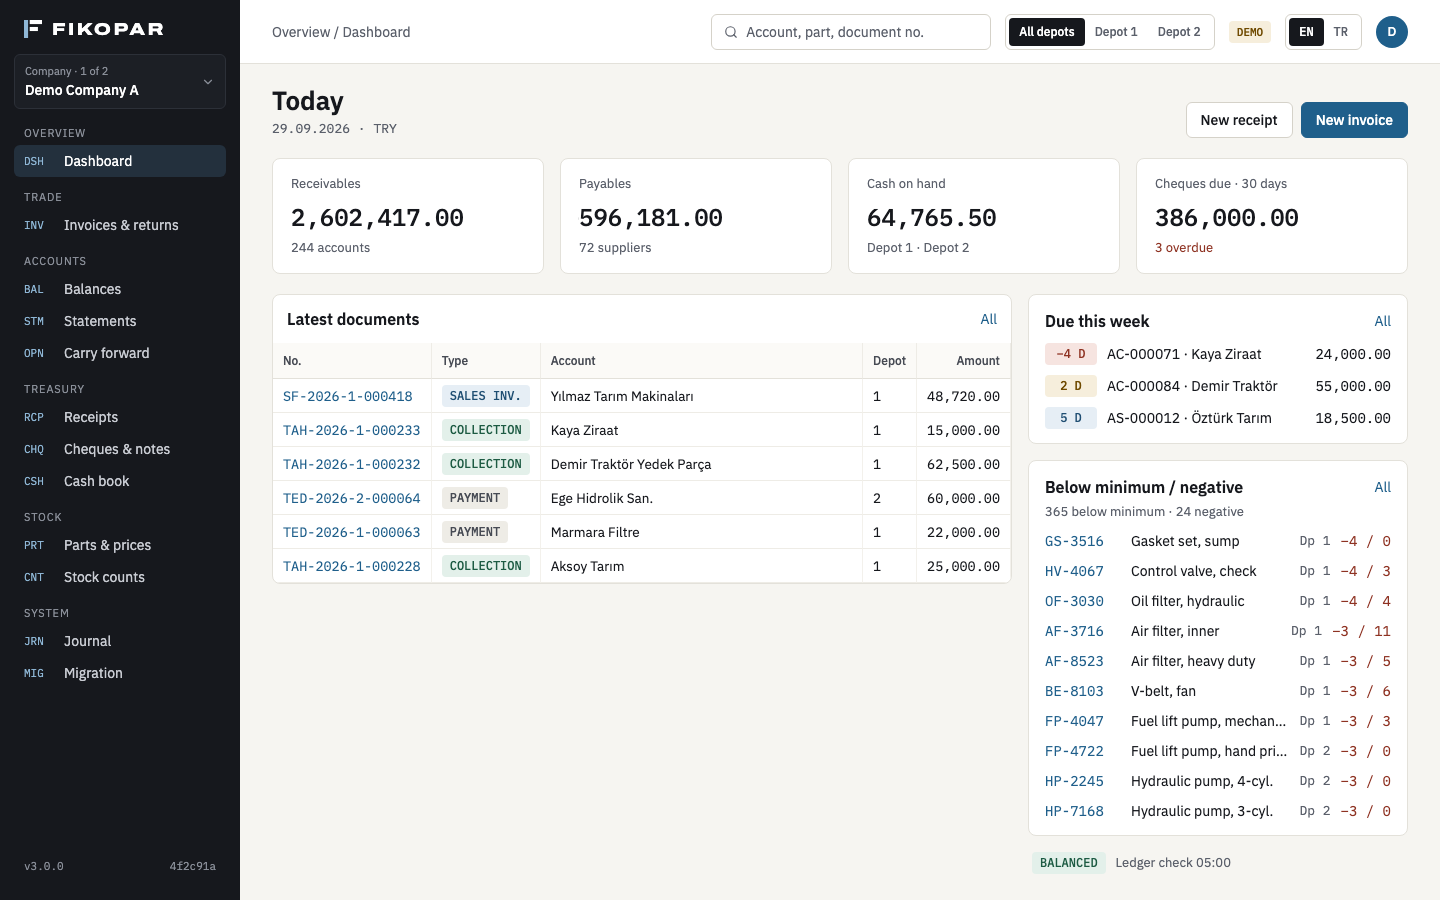
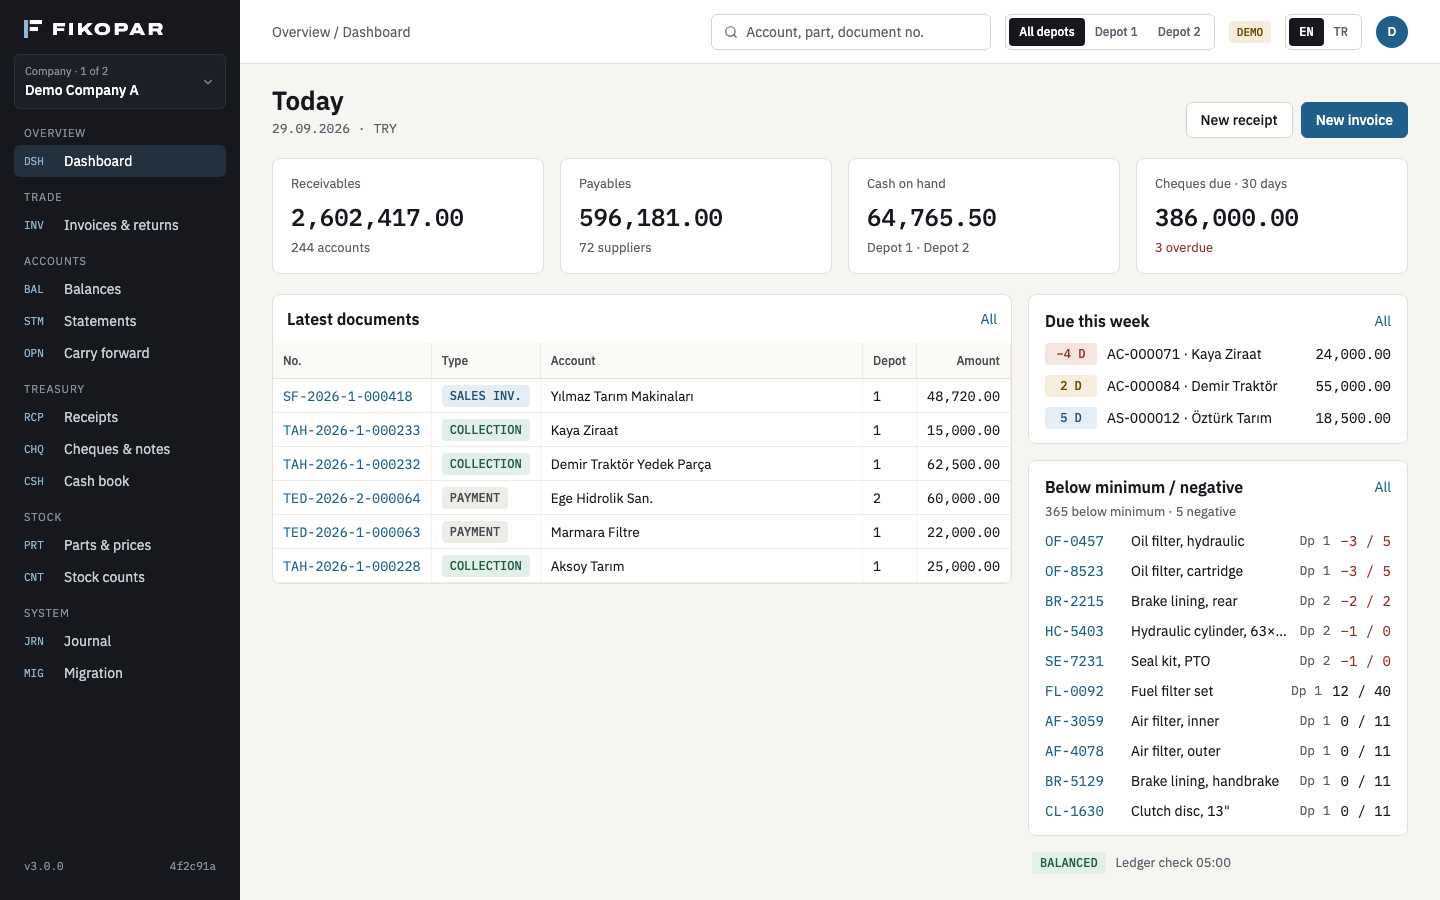
test(frontend): dashboard and mock numbers after fewer synthetic negatives; F2 contract issues and screenshots

Changed region(s): [[0.7188, 0.56, 0.9688, 0.9333], [0.9062, 0.7467, 0.9688, 0.9022]]

diff --git a/frontend/e2e/msw/dashboard.spec.ts b/frontend/e2e/msw/dashboard.spec.ts
@@ -29,11 +29,11 @@ for (const lang of ['en', 'tr'] as const) {
 test('below-minimum card lists negatives first and opens the parts grid', async ({ page }) => {
   await page.goto('/')
   const card = page.getByRole('region', { name: 'Below minimum / negative' })
-  await expect(card).toContainText('365 below minimum · 24 negative')
+  await expect(card).toContainText('365 below minimum · 5 negative')
   const rows = card.getByRole('listitem')
   await expect(rows).toHaveCount(10)
-  await expect(rows.first()).toContainText('GS-3516')
-  await expect(rows.first()).toContainText('−4 / 0')
+  await expect(rows.first()).toContainText('OF-0457')
+  await expect(rows.first()).toContainText('−3 / 5')
   await card.getByRole('link', { name: 'All' }).click()
   await expect(page).toHaveURL(/\/parts\?stock=BELOW_MIN_OR_NEGATIVE$/)
 })
@@ -41,8 +41,8 @@ test('below-minimum card lists negatives first and opens the parts grid', async 
 test('a below-minimum row opens the part', async ({ page }) => {
   await page.goto('/')
   const card = page.getByRole('region', { name: 'Below minimum / negative' })
-  await card.getByRole('link', { name: 'GS-3516' }).click()
-  await expect(page).toHaveURL(/\/parts\/2775$/)
+  await card.getByRole('link', { name: 'OF-0457' }).click()
+  await expect(page).toHaveURL(/\/parts\/1010$/)
 })
 
 test('the top-bar depot scopes the dashboard', async ({ page }) => {
@@ -52,7 +52,7 @@ test('the top-bar depot scopes the dashboard', async ({ page }) => {
   await expect(page).toHaveURL(/depot=2/)
   await expect(page.getByRole('group', { name: 'Cash on hand' })).toContainText('17,950.00')
   const card = page.getByRole('region', { name: 'Below minimum / negative' })
-  await expect(card).toContainText('117 below minimum · 10 negative')
+  await expect(card).toContainText('115 below minimum · 3 negative')
   await expect(card.getByRole('link', { name: 'All' })).toHaveAttribute(
     'href',
     '/parts?stock=BELOW_MIN_OR_NEGATIVE&depot=2',

diff --git a/frontend/src/pages/DashboardPage.test.tsx b/frontend/src/pages/DashboardPage.test.tsx
@@ -50,14 +50,14 @@ describe('DashboardPage', () => {
   it('lists parts below minimum with negatives first and links to the parts grid', async () => {
     renderApp('/')
     const card = await screen.findByRole('region', { name: 'Minimum altı / eksi' })
-    await waitFor(() => expect(card).toHaveTextContent('365 minimum altı · 24 eksi'))
+    await waitFor(() => expect(card).toHaveTextContent('365 minimum altı · 5 eksi'))
     const rows = within(card).getAllByRole('listitem')
     expect(rows).toHaveLength(10)
-    expect(rows[0]).toHaveTextContent('GS-3516')
-    expect(rows[0]).toHaveTextContent('Gasket set, sump')
-    expect(rows[0]).toHaveTextContent('−4 / 0')
-    expect(within(rows[0]).getByText('−4 / 0')).toHaveClass('text-fk-negative')
-    expect(within(rows[0]).getByRole('link')).toHaveAttribute('href', '/parts/2775')
+    expect(rows[0]).toHaveTextContent('OF-0457')
+    expect(rows[0]).toHaveTextContent('Oil filter, hydraulic')
+    expect(rows[0]).toHaveTextContent('−3 / 5')
+    expect(within(rows[0]).getByText('−3 / 5')).toHaveClass('text-fk-negative')
+    expect(within(rows[0]).getByRole('link')).toHaveAttribute('href', '/parts/1010')
     expect(within(card).getByRole('link', { name: 'Tümü' })).toHaveAttribute(
       'href',
       '/parts?stock=BELOW_MIN_OR_NEGATIVE',
@@ -72,7 +72,7 @@ describe('DashboardPage', () => {
     const calls = capture('get', '/api/orgs/:orgId/dashboard')
     renderApp('/?depot=2')
     const card = await screen.findByRole('region', { name: 'Minimum altı / eksi' })
-    await waitFor(() => expect(card).toHaveTextContent('117 minimum altı · 10 eksi'))
+    await waitFor(() => expect(card).toHaveTextContent('115 minimum altı · 3 eksi'))
     expect(calls[0].url.searchParams.get('depotId')).toBe('2')
     expect(within(card).getByRole('link', { name: 'Tümü' })).toHaveAttribute(
       'href',

diff --git a/frontend/src/mocks/catalogData.ts b/frontend/src/mocks/catalogData.ts
@@ -43,7 +43,7 @@ export interface MockPart {
   version: number
 }
 
-export interface DepotSettings {
+interface DepotSettings {
   minQty: number
   maxQty: number | null
   shelf: string
@@ -105,7 +105,7 @@ export interface StockDb {
 
 export const DEPOT_IDS = [1, 2]
 export const key = (partId: number, depotId: number) => `${partId}:${depotId}`
-export const IN_KINDS: MovementKind[] = ['IN', 'ADJUST_IN', 'TRANSFER_IN']
+const IN_KINDS: MovementKind[] = ['IN', 'ADJUST_IN', 'TRANSFER_IN']
 export const delta = (m: MockMovement) => (IN_KINDS.includes(m.kind) ? m.qty : -m.qty)
 
 const CATALOGS: [code: number, name: string, prefixes: [string, string, string[]][]][] = [
@@ -594,7 +594,7 @@ export function createStockDb(size = 2000): StockDb {
       const h = hand()
       const min = r() < 0.5 ? Math.floor(r() * 12) : 0
       setDepot(p.id, 1, [
-        r() < 0.012 ? -Math.ceil(r() * 4) : h,
+        r() < 0.001 ? -Math.ceil(r() * 4) : h,
         0,
         min,
         min ? min * 3 : null,
@@ -604,7 +604,7 @@ export function createStockDb(size = 2000): StockDb {
     if (r() < 0.55) {
       const min = r() < 0.4 ? Math.floor(r() * 8) : 0
       setDepot(p.id, 2, [
-        r() < 0.01 ? -Math.ceil(r() * 3) : hand(),
+        r() < 0.001 ? -Math.ceil(r() * 3) : hand(),
         0,
         min,
         min ? min * 3 : null,

diff --git a/frontend/src/api/endpoints.ts b/frontend/src/api/endpoints.ts
@@ -331,26 +331,6 @@ export const exportStockMovements = (orgId: number, body: MovementsRequest) =>
 export const transferStock = (orgId: number, body: StockTransferCreate, idempotencyKey: string) =>
   data(apiRequest<StockTransfer>('POST', `${stock(orgId)}/transfers`, { body, idempotencyKey }))
 
-export const listStockLevels = (
-  orgId: number,
-  query: {
-    partId?: number
-    depotId?: number | null
-    only?: 'ALL' | 'BELOW_MIN' | 'NEGATIVE' | 'BELOW_MIN_OR_NEGATIVE'
-    limit?: number
-    cursor?: string | null
-  },
-) =>
-  data(
-    apiRequest<{ items: StockLevel[]; nextCursor?: string | null }>(
-      'GET',
-      `${stock(orgId)}/levels`,
-      {
-        query,
-      },
-    ),
-  )
-
 export const listStockCounts = (
   orgId: number,
   query: { year?: number; depotId?: number | null; status?: StockCount['status'] } = {},

diff --git a/frontend/src/api/types.ts b/frontend/src/api/types.ts
@@ -57,7 +57,6 @@ export type Dashboard = S['Dashboard']
 export type StockWarning = S['StockWarning']
 export type Catalog = S['Catalog']
 export type PartCode = S['PartCode']
-export type PartWrite = S['PartWrite']
 export type Part = S['Part']
 export type PartColId = S['PartColId']
 export type PartRow = S['PartRow']
@@ -66,7 +65,7 @@ export type CatalogSearchResult = S['CatalogSearchResult']
 export type Price = S['Price']
 export type PriceWrite = S['PriceWrite']
 export type PriceImport = S['PriceImport']
-export type PriceImportMapping = S['PriceImportMapping']
+type PriceImportMapping = S['PriceImportMapping']
 export type PriceImportColumn = S['PriceImportColumn']
 export type PriceImportTarget = S['PriceImportTarget']
 export type PriceImportPreset = S['PriceImportPreset']

diff --git a/frontend/e2e/msw/screens-dash.spec.ts b/frontend/e2e/msw/screens-dash.spec.ts
@@ -10,7 +10,7 @@ test.skip(!process.env.SCREENS, 'screenshots only on demand')
 test('02 dashboard', async ({ page }) => {
   await page.goto('/')
   await expect(page.getByRole('region', { name: 'Below minimum / negative' })).toContainText(
-    'GS-3516',
+    'OF-0457',
   )
   await page.screenshot({ path: shot('02-dashboard'), animations: 'disabled' })
 })

diff --git a/docs/review/phase-2-contract-issues.md b/docs/review/phase-2-contract-issues.md
@@ -1,0 +1,16 @@
+# Phase 2 — contract issues found by the frontend
+
+Against `contracts-v1.2`. The frontend works around each one; none blocks F2.
+
+| # | Where | Issue | Frontend now | Proposal |
+|---|---|---|---|---|
+| 1 | `searchCatalog` | Words are matched against the name only; the invoice mockup query `pump 37` mixes a name word and a code fragment and would find nothing. | MSW matches every word against the name or any normalized code; rank 4. | Each word matches the name or a normalized code (stock no, MANUFACTURER, OEM, ALT, EQUIVALENT); rank unchanged. |
+| 2 | `gridParts` | A row carries stock for one scope (a depot or the sum); the parts list cannot show every depot side by side. | Stock columns follow the top-bar depot (screens.md). | Optional `stockByDepot[]` (`depotId`, `onHand`, `available`) on `PartRow`. |
+| 3 | `PriceImportMapping`, `PriceImportColumn` | Defaults (`encoding`, `decimalSeparator`, `scale`, …) make the generated response types require them, so the same schema cannot type a request body. | `MappingWrite` in `api/types.ts` (all optional). | Split `PriceImportMappingWrite` from the effective mapping in the response. |
+| 4 | `gridStockMovements` | A transfer is two rows (TRANSFER_OUT, TRANSFER_IN); mockup 09 shows one row `1 → 2` with in and out. | Two rows, depot column `1 → 2` on both. | None needed; noted for the mockup. |
+| 5 | `gridStockMovements` | No In / Out column ids; direction filters only as `delta`. | In and Out derived in the client, not filterable or sortable. | Allow `qtyIn` / `qtyOut` column ids (number filters). |
+| 6 | `PartCode` EQUIVALENT | Unclear what `code` holds (the other part's stock no?); no name or catalog of the linked part. | Card shows the code as a link to `equivalentPartId`. | Say `code` = linked stock no; `getPart` adds `equivalents[]` like `CatalogHit`. |
+| 7 | `setPartDepotSettings` | Not said whether an omitted `maxQty` / `shelf` keeps or clears the value. | The UI always sends all three fields. | PUT semantics: omitted = cleared (null / empty). |
+| 8 | `setPartPrice` | 200 (same price) and 201 (new) carry the same body. | Both treated as saved. | None needed. |
+| 9 | Count lines | No GET for one line; after a 412 the line is re-read through `gridStockCountLines` filtered by stock no. | Grid re-read. | `GET …/counts/{countId}/lines/{lineId}` with ETag. |
+| 10 | `gridPriceImportRows` | Column ids `description` / `brand` do not say whether they filter the file value or the catalog value. | MSW filters the file value, falling back to current. | State "file value, else current". |
